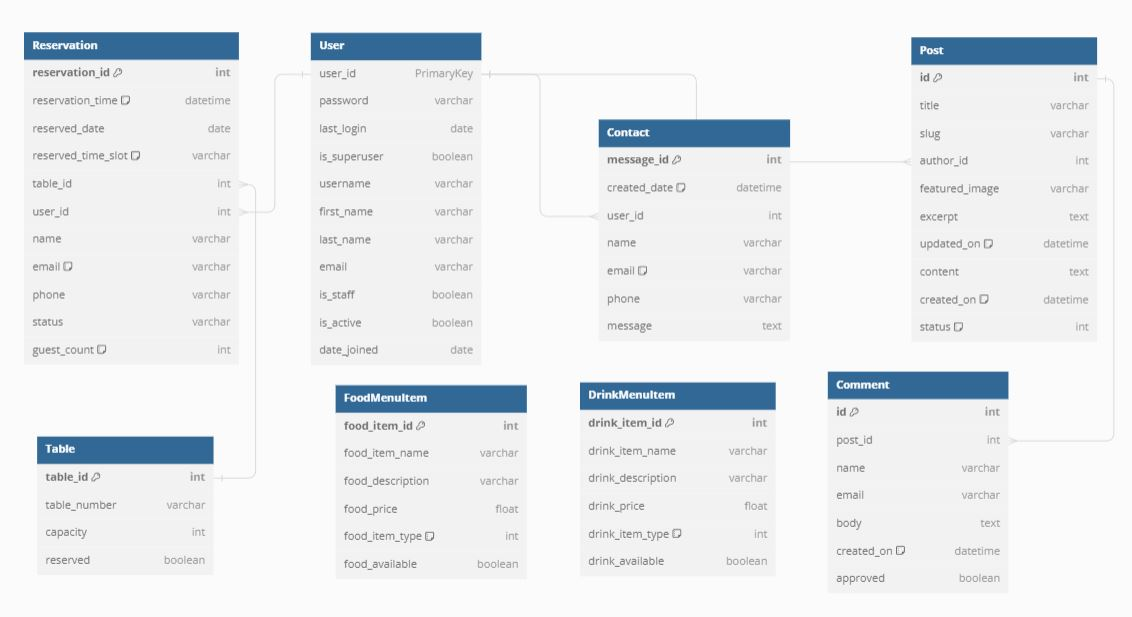
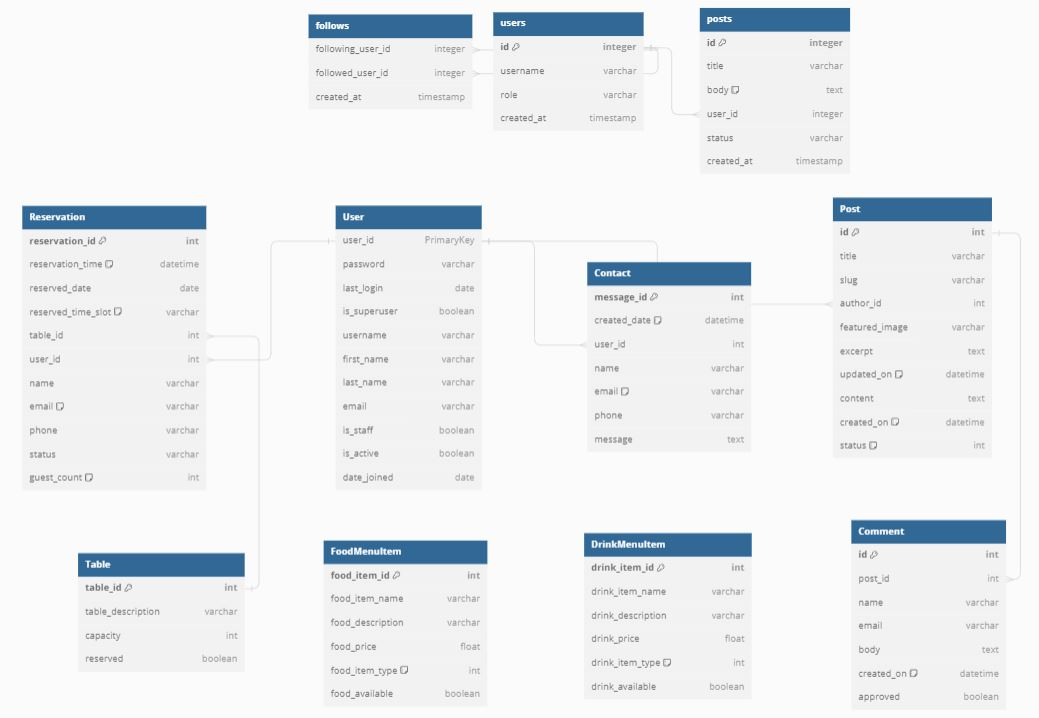
Replaced the ERD model changed the table field description

diff --git a/reservations/migrations/0010_rename_table_number_table_table_description.py b/reservations/migrations/0010_rename_table_number_table_table_description.py
@@ -1,0 +1,18 @@
+# Generated by Django 3.2.20 on 2023-09-01 20:13
+
+from django.db import migrations
+
+
+class Migration(migrations.Migration):
+
+    dependencies = [
+        ('reservations', '0009_alter_reservation_reserved_time_slot'),
+    ]
+
+    operations = [
+        migrations.RenameField(
+            model_name='table',
+            old_name='table_number',
+            new_name='table_description',
+        ),
+    ]

diff --git a/README.md b/README.md
@@ -170,7 +170,7 @@ Prominently featured in the footer are essential social media links, enabling us
 [dbdiagram.io](https://dbdiagram.io)
 
 <details><summary>Show diagram</summary>
-<img src="docs/erd_output.png">
+<img src="docs/erd_output.jpg">
 </details>
 
 ##### User Model
@@ -221,7 +221,7 @@ The Table Model contains the following fields:
 - table_id (PrimaryKey)
 - capacity
 - reserved
-- table_number
+- table_description
 
 <details><summary>Show model</summary>
 <img src="docs/model_Table.jpg">
